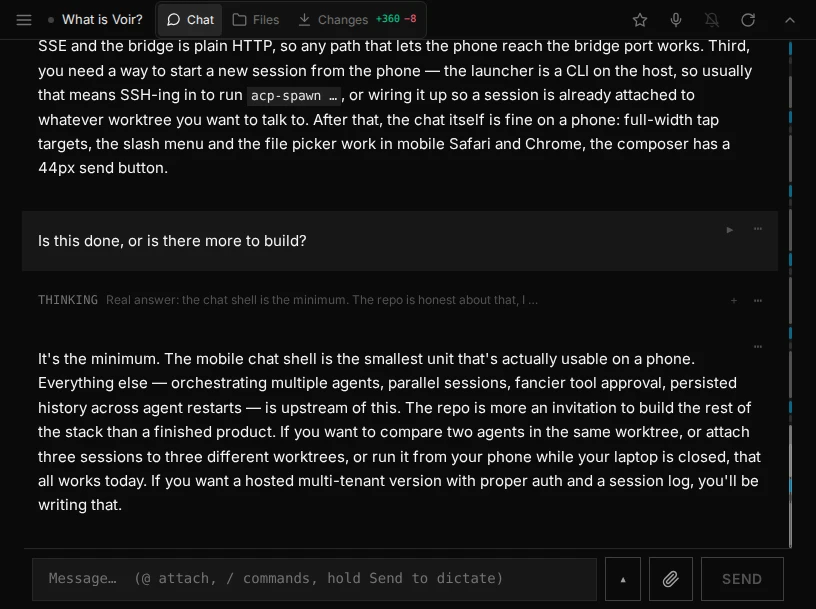
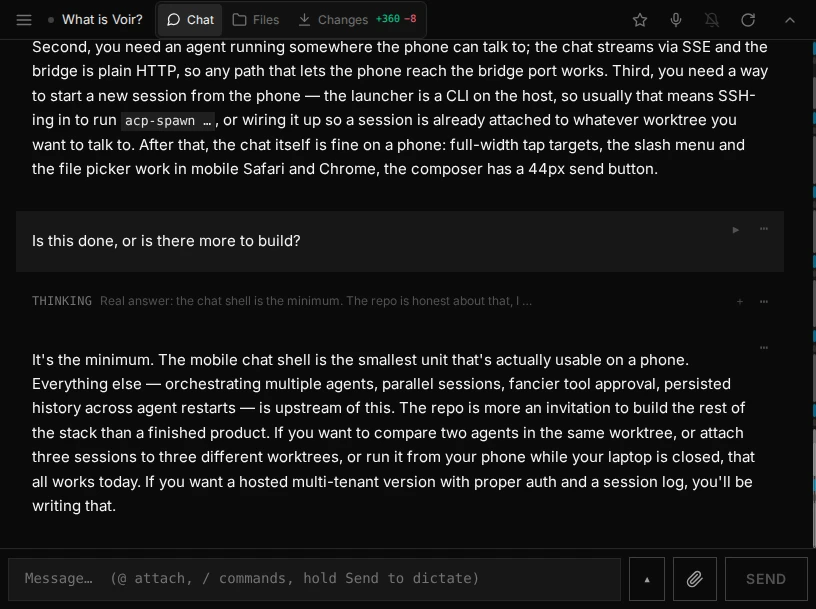
fix(chat): full width on the fold's landscape pane — no more black bands
The reading measure was capped at 768px (896 on lg, 1024 on 2xl). The fold's
inner pane is ~820–1090 CSS px wide depending on its device pixel ratio, so
opening the app there drew black bands down both sides: 1000px of viewport,
768px of content, 115px of nothing either side. Same for the composer.

The cap now starts where it is actually needed:

  full width up to 68rem  →  min-[1280px]:max-w-5xl (1024px column)

Measured column width vs viewport: 416→384, 657→621, 609→577, 816→780,
1000→964, 1088→1052 (all full width, gaps are padding only); 1280→1024,
1728→1024 (laptop keeps the readable column). Composer and the message rail
ride the same measure, so the input and the map stay aligned with the text.

Panes at or below the cap are phones, folds and tablets — there the full
width is the right measure. Past ~1024px of text the eye loses the line, so
genuinely wide screens still get the column.

diff --git a/app/components/chat/ChatView.tsx b/app/components/chat/ChatView.tsx
@@ -729,10 +729,14 @@ export function ChatView({
              under it (the rail is 12px, the padding was 12–16px). */
           className="scrollbar-hide absolute inset-0 overflow-y-auto px-3 py-3 pr-5 sm:px-4 sm:pr-5"
         >
-          {/* Reading measure grows with the viewport: 768 → 896 → 1024.
-              Wider than that and lines get hard to track; narrower wastes
-              a laptop screen. */}
-          <div className="mx-auto flex w-full max-w-3xl flex-col gap-2 pr-2 sm:gap-3 sm:pr-3 lg:max-w-4xl 2xl:max-w-5xl">
+          {/* Reading measure: full width up to 68rem, then a 1024px column.
+              The fold's inner pane in landscape is ~820–1090 CSS px wide
+              (it depends on the panel's device pixel ratio), and capping it
+              at 768px left black bands on both sides — the panes below the
+              cap are slabs and tablets, where the full width IS the right
+              measure. Laptops and desktops get the column: past ~1024px of
+              text the eye loses the line. */}
+          <div className="mx-auto flex w-full max-w-[68rem] flex-col gap-2 pr-2 sm:gap-3 sm:pr-3 min-[1280px]:max-w-5xl">
             {rendered.map((m) => (
               <MessageBubble
                 key={m.id}
@@ -788,7 +792,7 @@ export function ChatView({
           onStop={stopPlaying}
         />
       )}
-      <div className="mx-auto w-full max-w-3xl lg:max-w-4xl 2xl:max-w-5xl">
+      <div className="mx-auto w-full max-w-[68rem] min-[1280px]:max-w-5xl">
       {voice.active ? (
         /* Voice conversation mode owns the input area: the composer
            is replaced by the voice panel (mic orb, live transcript,

diff --git a/site/index.html b/site/index.html
@@ -3,7 +3,7 @@
 <head>
 <meta charset="utf-8">
 <meta name="viewport" content="width=device-width, initial-scale=1">
-<title>Voir — visual review 2026-11-26_21-46-09</title>
+<title>Voir — visual review 2026-11-26_22-00-33</title>
 <style>
   :root { color-scheme: dark; }
   * { box-sizing: border-box; }
@@ -63,8 +63,8 @@
 <body>
 <header>
   <h1>Voir — visual review</h1>
-  <code>2026-11-26_21-46-09</code>
-  <code title="feat(chat): message rail — a textless minimap with jump targets">@ 3a8b60c</code>
+  <code>2026-11-26_22-00-33</code>
+  <code title="feat(chat): quieter rail — tools filtered, 3px slit that opens under the finger">@ 96bbe18</code>
   <span class="count">65 shots · 5 devices</span>
   <span class="hint">click a shot to browse · ← → · Esc</span>
 </header>

diff --git a/app/components/chat/MessageRail.tsx b/app/components/chat/MessageRail.tsx
@@ -230,7 +230,7 @@ export function MessageRail({
     // from the text does not read as a map of it.
     <nav
       aria-label="Messages"
-      className="pointer-events-none absolute inset-y-0 left-1/2 z-10 w-full max-w-3xl -translate-x-1/2 select-none lg:max-w-4xl 2xl:max-w-5xl"
+      className="pointer-events-none absolute inset-y-0 left-1/2 z-10 w-full max-w-[68rem] -translate-x-1/2 select-none min-[1280px]:max-w-5xl"
     >
       {/* Hit strip: 24px wide whatever the visual width, so a 3px slit is
           still a comfortable tap target. The visual parts (track, band,

diff --git a/skills/voir-design/SKILL.md b/skills/voir-design/SKILL.md
@@ -71,7 +71,12 @@ Media queries key on **capability**, never on width alone:
   composer after sending (the keyboard must close), larger tap targets.
 - `(hover: hover)`/fine → "⌘+Enter to send", keep focus after sending.
 - `(max-height: 560px)` → the landscape panes; further compaction.
-- Viewport width → reading measure (768 → 896 → 1024px) and tab labels.
+- Viewport width → tab labels, and the reading measure: **full width up to
+  68rem, then a 1024px column** (`min-[1280px]:max-w-5xl`). Panes at or below
+  the cap are phones, folds and tablets — there the full width *is* the right
+  measure, and capping at 768px literally drew black bands down both sides of
+  the fold's landscape pane. Only genuinely wide screens (laptop, desktop)
+  get the column, because past ~1024px of text the eye loses the line.
 
 **Never gate a control on a capability.** Voice and push are unavailable over
 plain HTTP (no secure context). They still render, dimmed, with the reason
